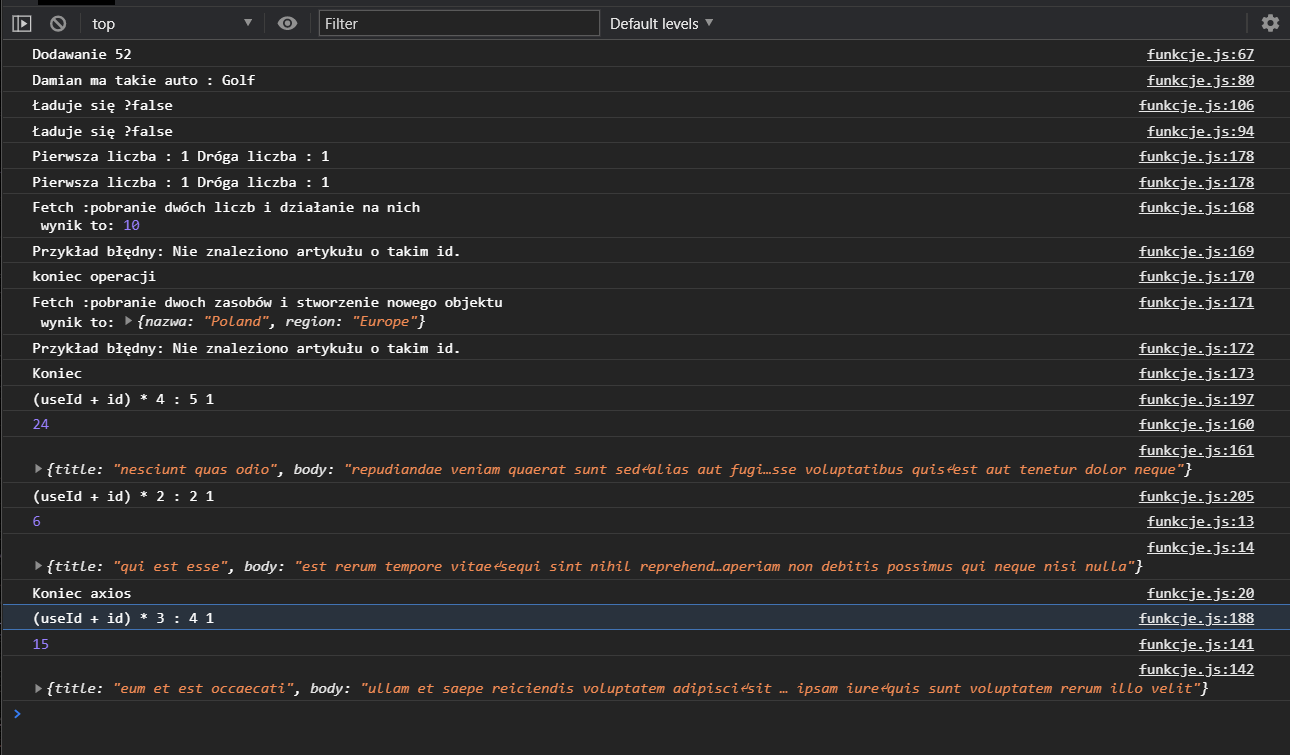
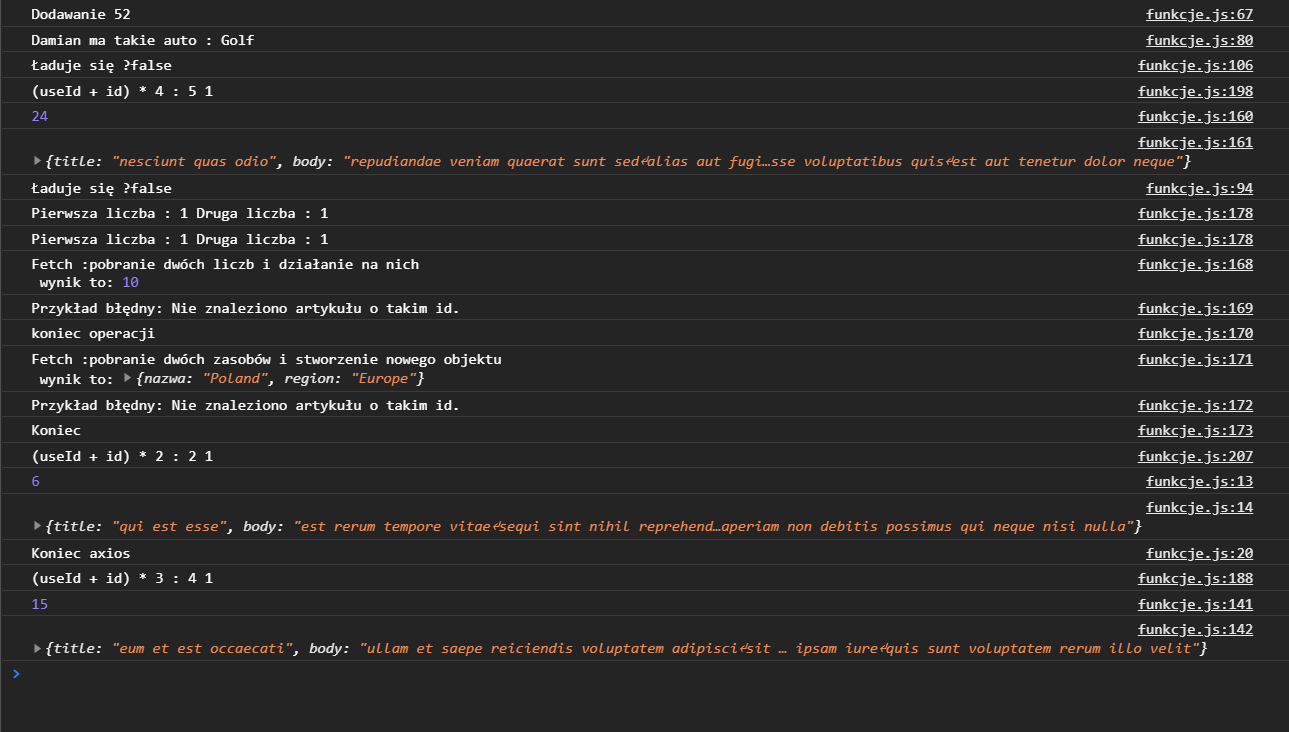
Commit lab 5

Changed region(s): [[0.0, 0.0, 1.0, 0.9317], [0.0, 0.8716, 0.5896, 0.9317], [0.4344, 0.0, 0.5586, 0.0601]]

diff --git a/Lab5/funkcje.js b/Lab5/funkcje.js
@@ -168,7 +168,7 @@ function odliczanieh()
 	  getArticle(userId).then(data => console.log('Fetch :pobranie dwóch liczb i działanie na nich\n wynik to:', data));
 	  getArticle('bzzz').catch(data => console.log("Przykład błędny:", data));
 	  getArticle(userId).finally(() => console.log('koniec operacji'));
-	  getArticleAndCreateObject(callingCodes).then(data => console.log('Fetch :pobranie dwoch zasobów i stworzenie nowego objektu \n wynik to:', data));
+	  getArticleAndCreateObject(callingCodes).then(data => console.log('Fetch :pobranie dwóch zasobów i stworzenie nowego objektu \n wynik to:', data));
 	  getArticleAndCreateObject('bzzz').catch(data => console.log("Przykład błędny:", data));
 	  getArticleAndCreateObject(callingCodes).finally(() => console.log('Koniec'));
 	  asyncAwait(url);
